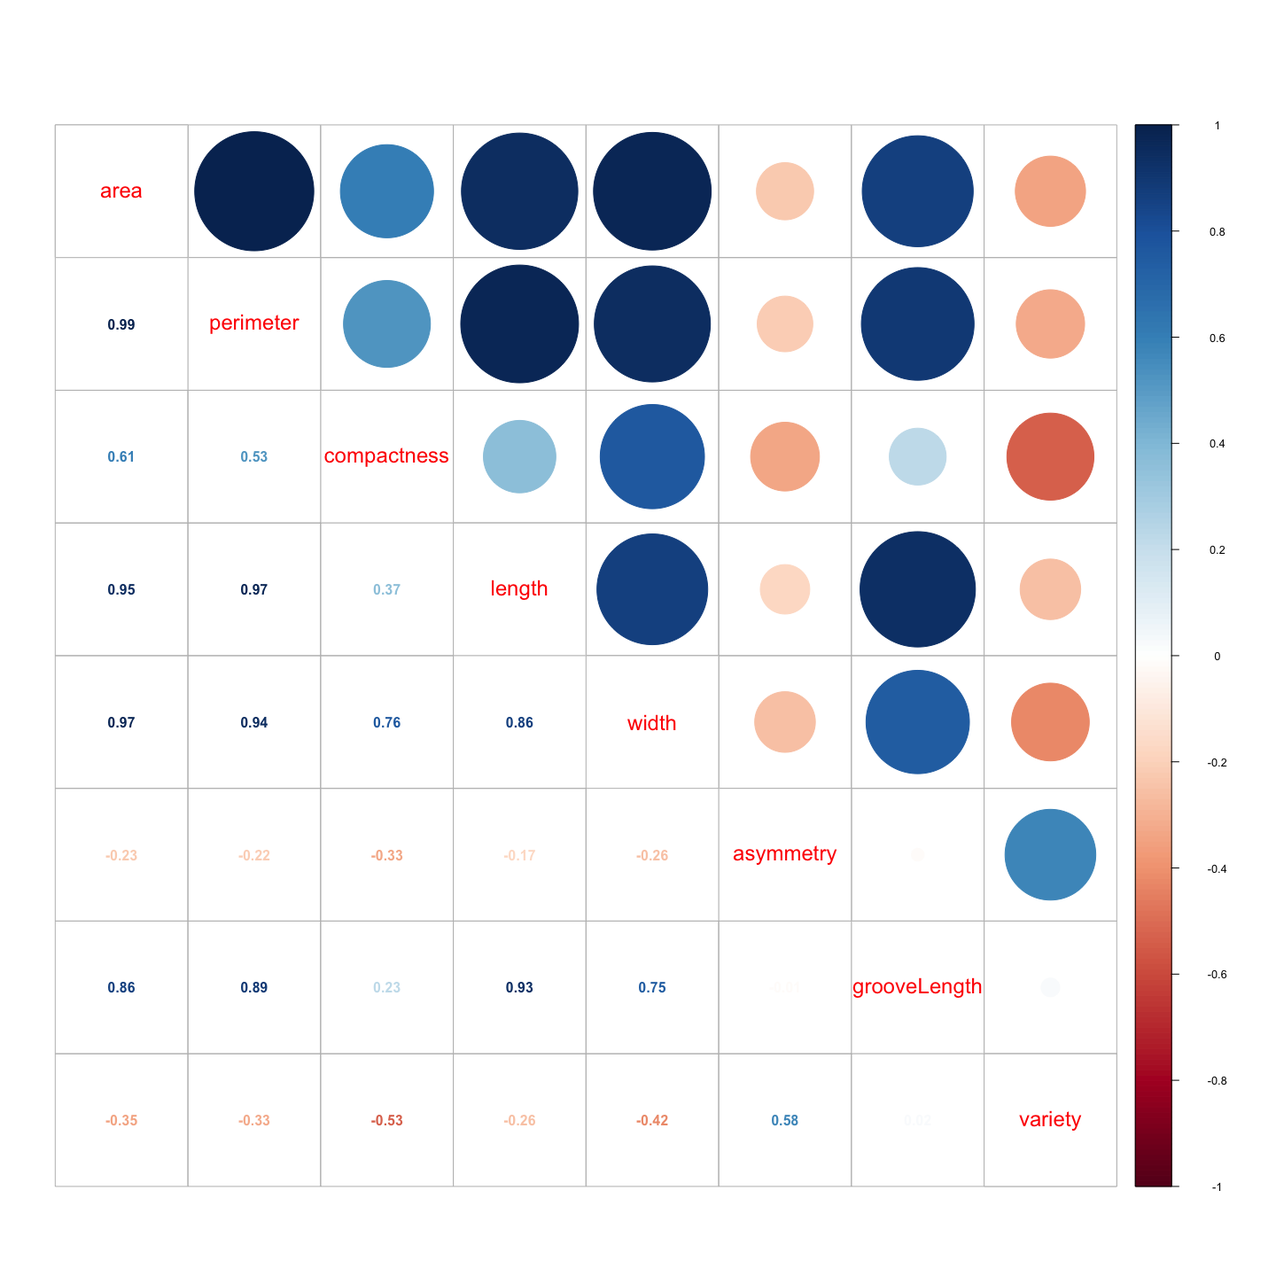
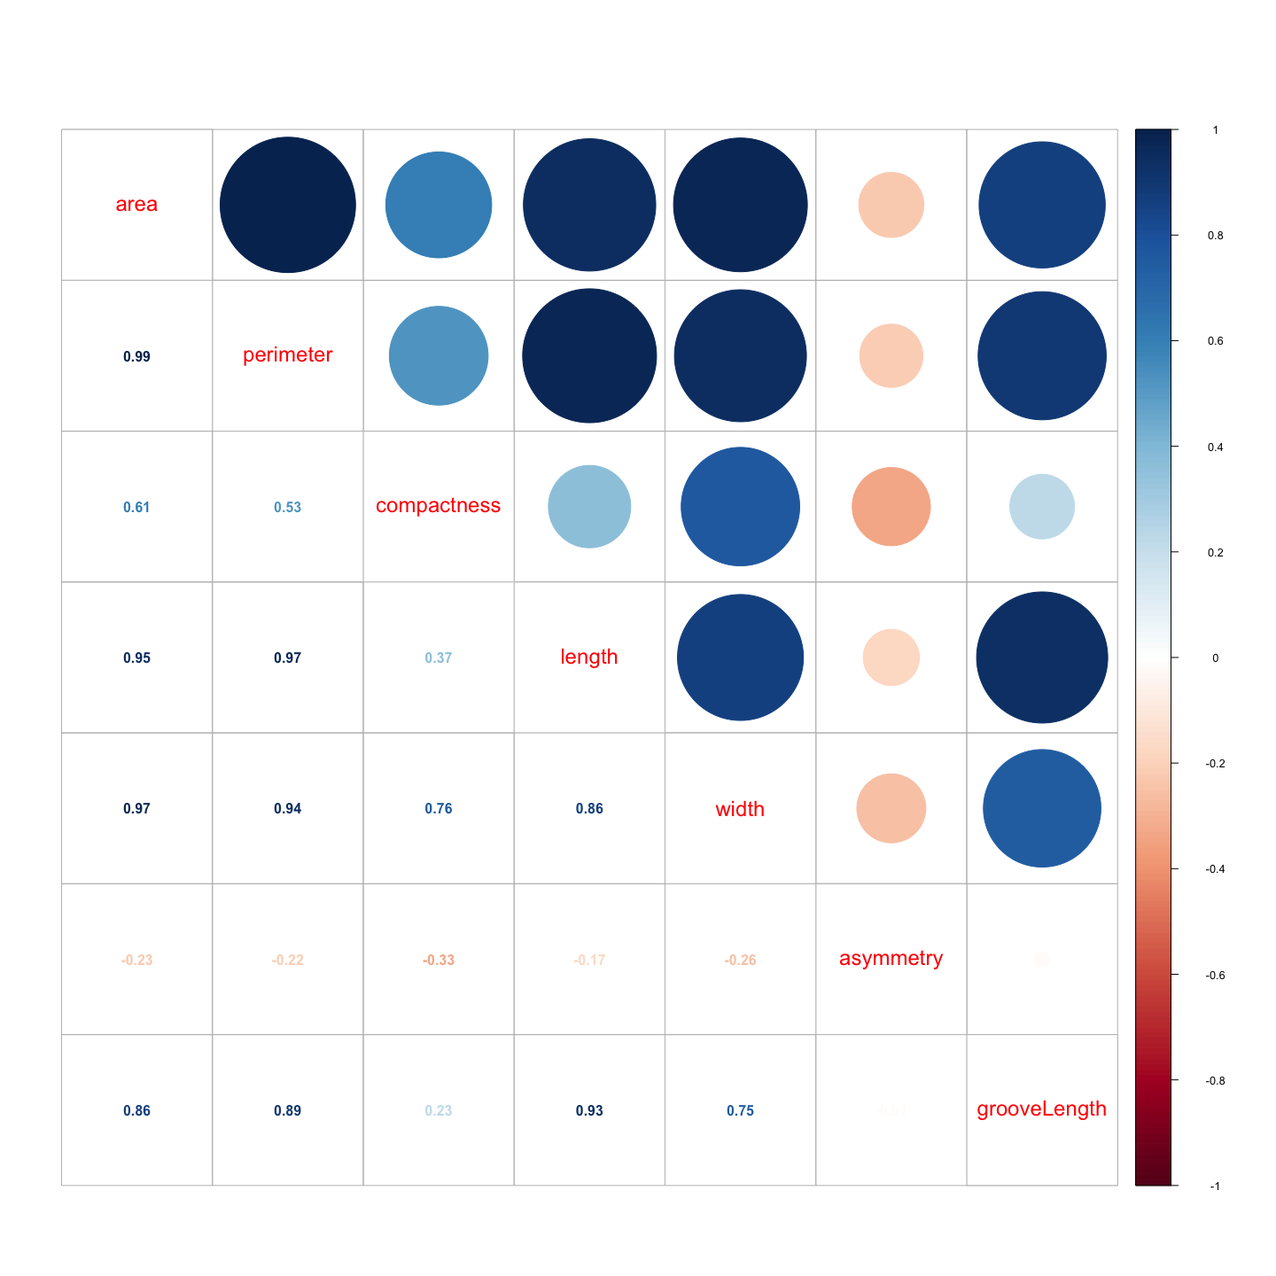
stat seeds

diff --git a/Stat/task3/seeds.html b/Stat/task3/seeds.html
@@ -74,6 +74,7 @@ code > span.er { font-weight: bold; }
 <p>Загружаем наши данные и переименовываем столбцы так, как указано в комментариях к данным.</p>
 <pre class="sourceCode r"><code class="sourceCode r">df &lt;-<span class="st"> </span><span class="kw">read.table</span>(<span class="st">&#39;data/seeds.txt&#39;</span>)
 <span class="kw">names</span>(df) &lt;-<span class="st"> </span><span class="kw">c</span>(<span class="st">&quot;area&quot;</span>, <span class="st">&quot;perimeter&quot;</span>, <span class="st">&quot;compactness&quot;</span>, <span class="st">&quot;length&quot;</span>, <span class="st">&quot;width&quot;</span>, <span class="st">&quot;asymmetry&quot;</span>, <span class="st">&quot;grooveLength&quot;</span>, <span class="st">&quot;variety&quot;</span>)
+df$variety &lt;-<span class="st"> </span><span class="kw">as.factor</span>(df$variety)
 <span class="kw">summary</span>(df)</code></pre>
 <pre><code>##       area         perimeter      compactness         length     
 ##  Min.   :10.59   Min.   :12.41   Min.   :0.8081   Min.   :4.899  
@@ -82,13 +83,13 @@ code > span.er { font-weight: bold; }
 ##  Mean   :14.85   Mean   :14.56   Mean   :0.8710   Mean   :5.629  
 ##  3rd Qu.:17.30   3rd Qu.:15.71   3rd Qu.:0.8878   3rd Qu.:5.980  
 ##  Max.   :21.18   Max.   :17.25   Max.   :0.9183   Max.   :6.675  
-##      width         asymmetry       grooveLength      variety 
-##  Min.   :2.630   Min.   :0.7651   Min.   :4.519   Min.   :1  
-##  1st Qu.:2.944   1st Qu.:2.5615   1st Qu.:5.045   1st Qu.:1  
-##  Median :3.237   Median :3.5990   Median :5.223   Median :2  
-##  Mean   :3.259   Mean   :3.7002   Mean   :5.408   Mean   :2  
-##  3rd Qu.:3.562   3rd Qu.:4.7687   3rd Qu.:5.877   3rd Qu.:3  
-##  Max.   :4.033   Max.   :8.4560   Max.   :6.550   Max.   :3</code></pre>
+##      width         asymmetry       grooveLength   variety
+##  Min.   :2.630   Min.   :0.7651   Min.   :4.519   1:70   
+##  1st Qu.:2.944   1st Qu.:2.5615   1st Qu.:5.045   2:70   
+##  Median :3.237   Median :3.5990   Median :5.223   3:70   
+##  Mean   :3.259   Mean   :3.7002   Mean   :5.408          
+##  3rd Qu.:3.562   3rd Qu.:4.7687   3rd Qu.:5.877          
+##  Max.   :4.033   Max.   :8.4560   Max.   :6.550</code></pre>
 <p>Построим всякие графики:</p>
 <pre class="sourceCode r"><code class="sourceCode r"><span class="kw">splom</span>(~df, <span class="dt">data=</span>df,
       <span class="dt">upper.panel=</span>function(x, y, ...) { <span class="kw">panel.xyplot</span>(x, y, ...); <span class="kw">panel.loess</span>(x, y, ..., <span class="dt">col=</span><span class="st">&#39;red&#39;</span>) },
@@ -97,7 +98,7 @@ code > span.er { font-weight: bold; }
 <div class="figure">
 <img src="seeds_files/figure-html/unnamed-chunk-3-1.png" />
 </div>
-<pre class="sourceCode r"><code class="sourceCode r"><span class="kw">corrplot.mixed</span>(<span class="kw">cor</span>(df), <span class="dt">tl.cex=</span><span class="fl">1.5</span>)</code></pre>
+<pre class="sourceCode r"><code class="sourceCode r"><span class="kw">corrplot.mixed</span>(<span class="kw">cor</span>(<span class="kw">subset</span>(df, <span class="dt">select=</span>-variety)), <span class="dt">tl.cex=</span><span class="fl">1.5</span>)</code></pre>
 <div class="figure">
 <img src="seeds_files/figure-html/unnamed-chunk-4-1.png" />
 </div>
@@ -105,26 +106,27 @@ code > span.er { font-weight: bold; }
 <div class="figure">
 <img src="seeds_files/figure-html/unnamed-chunk-5-1.png" />
 </div>
-<div id="lda" class="section level3">
-<h3>LDA</h3>
+<p>Поделим выборку на обучающую и тестовую в отношении 2/1:</p>
 <pre class="sourceCode r"><code class="sourceCode r">train.idx &lt;-<span class="st"> </span><span class="kw">sample</span>(<span class="kw">nrow</span>(df), <span class="dt">size =</span> <span class="kw">nrow</span>(df) *<span class="st"> </span><span class="fl">0.6666</span>)
 df.train &lt;-<span class="st"> </span>df[train.idx, ]
 df.test &lt;-<span class="st"> </span>df[-train.idx, ]</code></pre>
+<div id="lda" class="section level3">
+<h3>LDA</h3>
 <p>Установим функцию тестирования нашей модели (10-fold cross validation) и проверим test-train (выведем относительную ошибку)</p>
-<pre class="sourceCode r"><code class="sourceCode r">check.testTrain =<span class="st"> </span>function(f) {
+<pre class="sourceCode r"><code class="sourceCode r">check.testTrain.lda &lt;-<span class="st"> </span>function(f) {
   m.predicted &lt;-<span class="st"> </span><span class="kw">predict</span>(<span class="kw">lda</span>(f, <span class="dt">data =</span> df.train), df.test)
   <span class="kw">print</span>(<span class="kw">table</span>(m.predicted$class, df.test$variety))
   <span class="kw">mean</span>(m.predicted$class !=<span class="st"> </span>df.test$variety)
 }
 
-check =<span class="st"> </span>function(f) {
+check.lda =<span class="st"> </span>function(f) {
   <span class="kw">print</span>(<span class="kw">lda</span>(f, df))
-  t &lt;-<span class="st"> </span><span class="kw">tune</span>(lda, f, <span class="dt">data =</span> df, <span class="dt">predict.func =</span> function(...) <span class="kw">as.numeric</span>(<span class="kw">predict</span>(...)$class))
-  <span class="kw">print</span>(<span class="kw">check.testTrain</span>(f))
+  t &lt;-<span class="st"> </span><span class="kw">tune</span>(lda, f, <span class="dt">data =</span> df, <span class="dt">predict.func =</span> function(...) <span class="kw">predict</span>(...)$class)
+  <span class="kw">print</span>(<span class="kw">check.testTrain.lda</span>(f))
   t
 }
 
-<span class="kw">check</span>(variety ~<span class="st"> </span>.)</code></pre>
+<span class="kw">check.lda</span>(variety ~<span class="st"> </span>.)</code></pre>
 <pre><code>## Call:
 ## lda(f, data = df)
 ## 
@@ -153,17 +155,17 @@ check =<span class="st"> </span>function(f) {
 ## 0.6814 0.3186 
 ##    
 ##      1  2  3
-##   1 18  0  2
-##   2  0 22  0
-##   3  4  0 25
-## [1] 0.08450704</code></pre>
+##   1 23  1  0
+##   2  0 25  0
+##   3  1  0 21
+## [1] 0.02816901</code></pre>
 <pre><code>## 
-## Error estimation of &#39;lda&#39; using 10-fold cross validation: 0.1238095</code></pre>
+## Error estimation of &#39;lda&#39; using 10-fold cross validation: 0.03809524</code></pre>
 <p>Надо бы избавиться в модели от зависимых параметров.</p>
 <p>Area и perimeter превращаются по формуле (в датасете она есть в описании данных) в compactness. Одно из измерений ядра тоже можно выкинуть.</p>
 <p>После всех проб и ошибок я выбрал такую модель, минимизирующую ошибку: оставим только длины зерна и “groove” (однажды я вообще получил полное совпадение)</p>
-<pre class="sourceCode r"><code class="sourceCode r">model &lt;-<span class="st"> </span>variety ~<span class="st"> </span>. -<span class="st"> </span>area -<span class="st"> </span>perimeter -<span class="st"> </span>width -<span class="st"> </span>asymmetry -<span class="st"> </span>compactness
-<span class="kw">check</span>(model)</code></pre>
+<pre class="sourceCode r"><code class="sourceCode r">model &lt;-<span class="st"> </span>variety ~<span class="st"> </span>length +<span class="st"> </span>grooveLength
+<span class="kw">check.lda</span>(model)</code></pre>
 <pre><code>## Call:
 ## lda(f, data = df)
 ## 
@@ -187,16 +189,215 @@ check =<span class="st"> </span>function(f) {
 ## 0.7006 0.2994 
 ##    
 ##      1  2  3
-##   1 20  0  0
-##   2  0 22  0
-##   3  2  0 27
+##   1 23  0  0
+##   2  0 25  0
+##   3  1  1 21
 ## [1] 0.02816901</code></pre>
 <pre><code>## 
-## Error estimation of &#39;lda&#39; using 10-fold cross validation: 0.09047619</code></pre>
+## Error estimation of &#39;lda&#39; using 10-fold cross validation: 0.03333333</code></pre>
 <p>От запуска к запуску цифры все время разные, но раз модели предсказания почти одинаковые, почему бы не взять ту, которая проще :)</p>
 </div>
 <div id="naive-bayes" class="section level2">
 <h2>Naive Bayes</h2>
+<p>Снова тестовая функция:</p>
+<pre class="sourceCode r"><code class="sourceCode r">check.testTrain.nb =<span class="st"> </span>function(f) {
+  m.predicted &lt;-<span class="st"> </span><span class="kw">predict</span>(<span class="kw">naiveBayes</span>(f, <span class="dt">data =</span> df.train), df.test)
+  <span class="kw">print</span>(<span class="kw">table</span>(m.predicted, df.test$variety))
+  <span class="kw">mean</span>(m.predicted !=<span class="st"> </span>df.test$variety)
+}
+
+check.nb =<span class="st"> </span>function(f) {
+  <span class="kw">print</span>(<span class="kw">naiveBayes</span>(f, df))
+  t &lt;-<span class="st"> </span><span class="kw">tune</span>(naiveBayes, f, <span class="dt">data =</span> df)
+  <span class="kw">print</span>(<span class="kw">check.testTrain.nb</span>(f))
+  t
+}
+
+<span class="kw">check.nb</span>(<span class="kw">as.factor</span>(variety) ~<span class="st"> </span>.)</code></pre>
+<pre><code>## 
+## Naive Bayes Classifier for Discrete Predictors
+## 
+## Call:
+## naiveBayes.default(x = X, y = Y, laplace = laplace)
+## 
+## A-priori probabilities:
+## Y
+##         1         2         3 
+## 0.3333333 0.3333333 0.3333333 
+## 
+## Conditional probabilities:
+##    area
+## Y       [,1]      [,2]
+##   1 14.33443 1.2157036
+##   2 18.33429 1.4394963
+##   3 11.87386 0.7230036
+## 
+##    perimeter
+## Y       [,1]      [,2]
+##   1 14.29429 0.5765831
+##   2 16.13571 0.6169950
+##   3 13.24786 0.3401956
+## 
+##    compactness
+## Y        [,1]       [,2]
+##   1 0.8800700 0.01619093
+##   2 0.8835171 0.01550004
+##   3 0.8494086 0.02175963
+## 
+##    length
+## Y       [,1]      [,2]
+##   1 5.508057 0.2315080
+##   2 6.148029 0.2681911
+##   3 5.229514 0.1380152
+## 
+##    width
+## Y       [,1]      [,2]
+##   1 3.244629 0.1776155
+##   2 3.677414 0.1855391
+##   3 2.853771 0.1475161
+## 
+##    asymmetry
+## Y       [,1]     [,2]
+##   1 2.667403 1.173901
+##   2 3.644800 1.181868
+##   3 4.788400 1.336465
+## 
+##    grooveLength
+## Y       [,1]      [,2]
+##   1 5.087214 0.2636987
+##   2 6.020600 0.2539338
+##   3 5.116400 0.1620683
+## 
+##            
+## m.predicted  1  2  3
+##           1 22  4  0
+##           2  0 22  0
+##           3  2  0 21
+## [1] 0.08450704</code></pre>
+<pre><code>## 
+## Error estimation of &#39;naiveBayes&#39; using 10-fold cross validation: 0.1</code></pre>
+<p>Попробуем ту же модель, что мы нашли для lda:</p>
+<pre class="sourceCode r"><code class="sourceCode r">model &lt;-<span class="st"> </span><span class="kw">as.factor</span>(variety) ~<span class="st"> </span>length +<span class="st"> </span>grooveLength
+<span class="kw">check.nb</span>(model)</code></pre>
+<pre><code>## 
+## Naive Bayes Classifier for Discrete Predictors
+## 
+## Call:
+## naiveBayes.default(x = X, y = Y, laplace = laplace)
+## 
+## A-priori probabilities:
+## Y
+##         1         2         3 
+## 0.3333333 0.3333333 0.3333333 
+## 
+## Conditional probabilities:
+##    length
+## Y       [,1]      [,2]
+##   1 5.508057 0.2315080
+##   2 6.148029 0.2681911
+##   3 5.229514 0.1380152
+## 
+##    grooveLength
+## Y       [,1]      [,2]
+##   1 5.087214 0.2636987
+##   2 6.020600 0.2539338
+##   3 5.116400 0.1620683
+## 
+##            
+## m.predicted  1  2  3
+##           1 20  2  4
+##           2  0 24  0
+##           3  4  0 17
+## [1] 0.1408451</code></pre>
+<pre><code>## 
+## Error estimation of &#39;naiveBayes&#39; using 10-fold cross validation: 0.1428571</code></pre>
+<p>Не очень. Оказалось, что такая чуть лучше, но все равно не кардинально улучшает модель, да и от запуска к запуску числа разные.</p>
+<pre class="sourceCode r"><code class="sourceCode r">model &lt;-<span class="st"> </span><span class="kw">as.factor</span>(variety) ~<span class="st"> </span>area +<span class="st"> </span>grooveLength
+<span class="kw">check.nb</span>(model)</code></pre>
+<pre><code>## 
+## Naive Bayes Classifier for Discrete Predictors
+## 
+## Call:
+## naiveBayes.default(x = X, y = Y, laplace = laplace)
+## 
+## A-priori probabilities:
+## Y
+##         1         2         3 
+## 0.3333333 0.3333333 0.3333333 
+## 
+## Conditional probabilities:
+##    area
+## Y       [,1]      [,2]
+##   1 14.33443 1.2157036
+##   2 18.33429 1.4394963
+##   3 11.87386 0.7230036
+## 
+##    grooveLength
+## Y       [,1]      [,2]
+##   1 5.087214 0.2636987
+##   2 6.020600 0.2539338
+##   3 5.116400 0.1620683
+## 
+##            
+## m.predicted  1  2  3
+##           1 21  1  2
+##           2  0 25  0
+##           3  3  0 19
+## [1] 0.08450704</code></pre>
+<pre><code>## 
+## Error estimation of &#39;naiveBayes&#39; using 10-fold cross validation: 0.09047619</code></pre>
+<p>Это, я думаю, происходит оттого, что данных не сказать что бы много, да и очень много зависимых параметров.</p>
+</div>
+<div id="multinomial-regression" class="section level2">
+<h2>Multinomial regression</h2>
+<p>Снова тестовые фукнции</p>
+<pre class="sourceCode r"><code class="sourceCode r">check.testTrain.mr =<span class="st"> </span>function(f) {
+  m.predicted &lt;-<span class="st"> </span><span class="kw">predict</span>(<span class="kw">multinom</span>(f, df.train, <span class="dt">maxit =</span> <span class="dv">2000</span>, <span class="dt">trace=</span><span class="ot">FALSE</span>), df.test)
+  <span class="kw">print</span>(<span class="kw">table</span>(m.predicted, df.test$variety))
+  <span class="kw">mean</span>(m.predicted !=<span class="st"> </span>df.test$variety)
+}
+
+check.mr =<span class="st"> </span>function(f) {
+  (mr &lt;-<span class="st"> </span><span class="kw">multinom</span>(f, df, <span class="dt">maxit =</span> <span class="dv">2000</span>, <span class="dt">trace=</span><span class="ot">FALSE</span>))
+  t &lt;-<span class="st"> </span><span class="kw">tune</span>(multinom, f, <span class="dt">data =</span> df, <span class="dt">maxit=</span><span class="dv">2000</span>, <span class="dt">trace=</span><span class="ot">FALSE</span>)
+  <span class="kw">print</span>(<span class="kw">check.testTrain.mr</span>(f))
+  t
+}
+
+<span class="kw">check.mr</span>(<span class="kw">as.factor</span>(variety) ~<span class="st"> </span>.)</code></pre>
+<pre><code>##            
+## m.predicted  1  2  3
+##           1 23  0  1
+##           2  0 26  0
+##           3  1  0 20
+## [1] 0.02816901</code></pre>
+<pre><code>## 
+## Error estimation of &#39;multinom&#39; using 10-fold cross validation: 0.02857143</code></pre>
+<p>Даже такая полная модель дала очень маленькую ошибку. Может попробовать поискать модель попроще с ошибкой той же степени? Попробуем формулу LDA:</p>
+<pre class="sourceCode r"><code class="sourceCode r">model &lt;-<span class="st"> </span><span class="kw">as.factor</span>(variety) ~<span class="st"> </span>length +<span class="st"> </span>grooveLength
+<span class="kw">check.mr</span>(model)</code></pre>
+<pre><code>##            
+## m.predicted  1  2  3
+##           1 23  0  1
+##           2  0 25  0
+##           3  1  1 20
+## [1] 0.04225352</code></pre>
+<pre><code>## 
+## Error estimation of &#39;multinom&#39; using 10-fold cross validation: 0.04285714</code></pre>
+<p>Ошибка чуть больше.</p>
+<p>Или из Байеса:</p>
+<pre class="sourceCode r"><code class="sourceCode r">model &lt;-<span class="st"> </span><span class="kw">as.factor</span>(variety) ~<span class="st"> </span>area +<span class="st"> </span>grooveLength
+<span class="kw">check.mr</span>(model)</code></pre>
+<pre><code>##            
+## m.predicted  1  2  3
+##           1 22  3  0
+##           2  0 23  0
+##           3  2  0 21
+## [1] 0.07042254</code></pre>
+<pre><code>## 
+## Error estimation of &#39;multinom&#39; using 10-fold cross validation: 0.07142857</code></pre>
+<p>Еще увеличилась.</p>
+<p>В целом, ничего лучше начальной самой общей модели мне найти не удалось, LDA-формула оказалась ближе всех, да и модель вышла довольно простая.</p>
 </div>
 
 

diff --git a/Stat/task3/concrete.html b/Stat/task3/concrete.html
@@ -146,7 +146,7 @@ code > span.er { font-weight: bold; }
 ## Multiple R-squared:  0.6252, Adjusted R-squared:  0.6226 
 ## F-statistic: 243.5 on 7 and 1022 DF,  p-value: &lt; 2.2e-16</code></pre>
 <p>Коэффициенты у параметров очень маленькие, если сравнивать с Intercept модели, но все p-value очень небольшие: все они хорошо влияют.</p>
-<p>Вернемся к замечанию про нелинейность Age: что если его прологарифмировать?</p>
+<p>На скаттере можно видеть что Age распределен как-то неравномерно, похоже что он нелинеен: что если его прологарифмировать?</p>
 <pre class="sourceCode r"><code class="sourceCode r">fit2 &lt;-<span class="st"> </span><span class="kw">lm</span>(POWER ~<span class="st"> </span><span class="kw">log</span>(Age) +<span class="st"> </span>Cement +<span class="st"> </span>Water*Superplasticizer +<span class="st"> </span>BlastFurnaceSlag +<span class="st"> </span>FlyAsh, data.concrete)
 <span class="kw">summary</span>(fit2)</code></pre>
 <pre><code>## 
@@ -177,10 +177,16 @@ code > span.er { font-weight: bold; }
 <p>Все улучшилось, ожидаемо.</p>
 <p>Далее, посмотрим (как написано в задании) поближе на зависимость POWER от воды и возраста: какие-то графики на скаттере получились сильно изломленные, возможно это кандидаты на фактор:</p>
 <pre class="sourceCode r"><code class="sourceCode r">f &lt;-<span class="st"> </span>function(p) {
-  p=<span class="kw">xyplot</span>(POWER ~<span class="st"> </span>p, data.concrete);
+  <span class="kw">xyplot</span>(POWER ~<span class="st"> </span>p, data.concrete, <span class="dt">panel =</span> function(...) { <span class="kw">panel.xyplot</span>(...); <span class="kw">panel.loess</span>(..., <span class="dt">col=</span><span class="st">&#39;red&#39;</span>) });
 }
-<span class="kw">f</span>(data.concrete$Water)
-<span class="kw">f</span>(data.concrete$Age)</code></pre>
+<span class="kw">plot</span>(<span class="kw">f</span>(data.concrete$Water))</code></pre>
+<div class="figure">
+<img src="concrete_files/figure-html/unnamed-chunk-7-1.png" />
+</div>
+<pre class="sourceCode r"><code class="sourceCode r"><span class="kw">plot</span>(<span class="kw">f</span>(data.concrete$Age))</code></pre>
+<div class="figure">
+<img src="concrete_files/figure-html/unnamed-chunk-7-2.png" />
+</div>
 <p>Вода: судя по всему на нелинейность повлияли даннные: их слишком много на 230, но можно сделать фактором “воды меньше 200” Возраст: тоже такой же фактор, возраст &lt; 110.</p>
 <p>Построим модель и выкинем некоторые ненужные параметры (сразу конечный результат):</p>
 <pre class="sourceCode r"><code class="sourceCode r">data.concrete$waterFactor &lt;-<span class="st"> </span>data.concrete$Water &lt;<span class="st"> </span><span class="dv">220</span>
@@ -229,13 +235,13 @@ fit3 &lt;-<span class="st"> </span><span class="kw">lm</span>(POWER ~<span class
 <pre class="sourceCode r"><code class="sourceCode r">cv &lt;-<span class="st"> </span>function(data) { <span class="kw">tune</span>(lm, data$call$formula, <span class="dt">data =</span> data.concrete, <span class="dt">tunecontrol =</span> <span class="kw">tune.control</span>(<span class="dt">sampling =</span> <span class="st">&quot;cross&quot;</span>)) }
 <span class="kw">cv</span>(fit1)</code></pre>
 <pre><code>## 
-## Error estimation of &#39;lm&#39; using 10-fold cross validation: 106.1122</code></pre>
+## Error estimation of &#39;lm&#39; using 10-fold cross validation: 106.9503</code></pre>
 <pre class="sourceCode r"><code class="sourceCode r"><span class="kw">cv</span>(fit2)</code></pre>
 <pre><code>## 
-## Error estimation of &#39;lm&#39; using 10-fold cross validation: 52.14152</code></pre>
+## Error estimation of &#39;lm&#39; using 10-fold cross validation: 52.1561</code></pre>
 <pre class="sourceCode r"><code class="sourceCode r"><span class="kw">cv</span>(fit3)</code></pre>
 <pre><code>## 
-## Error estimation of &#39;lm&#39; using 10-fold cross validation: 47.61111</code></pre>
+## Error estimation of &#39;lm&#39; using 10-fold cross validation: 47.56382</code></pre>
 <pre class="sourceCode r"><code class="sourceCode r"><span class="kw">anova</span>(fit1, fit2, fit3)</code></pre>
 <pre><code>## Analysis of Variance Table
 ## 
